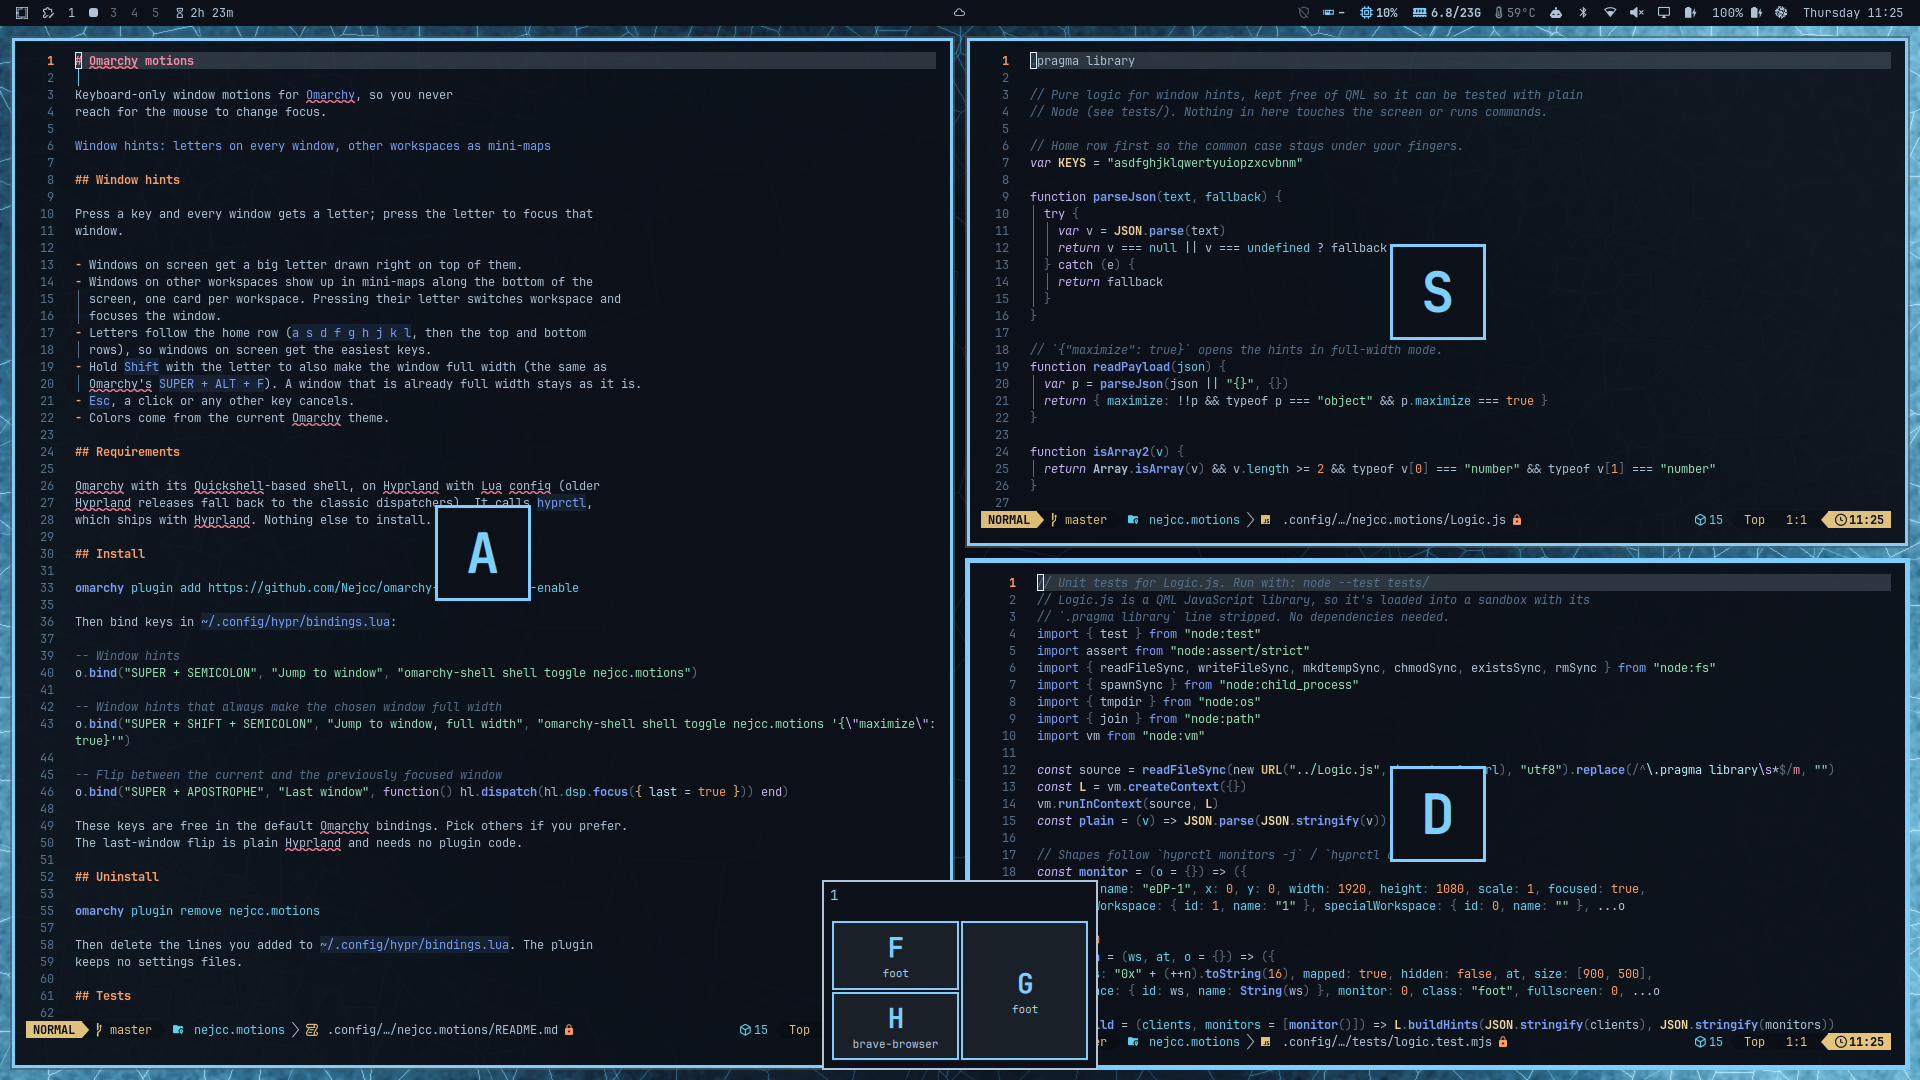
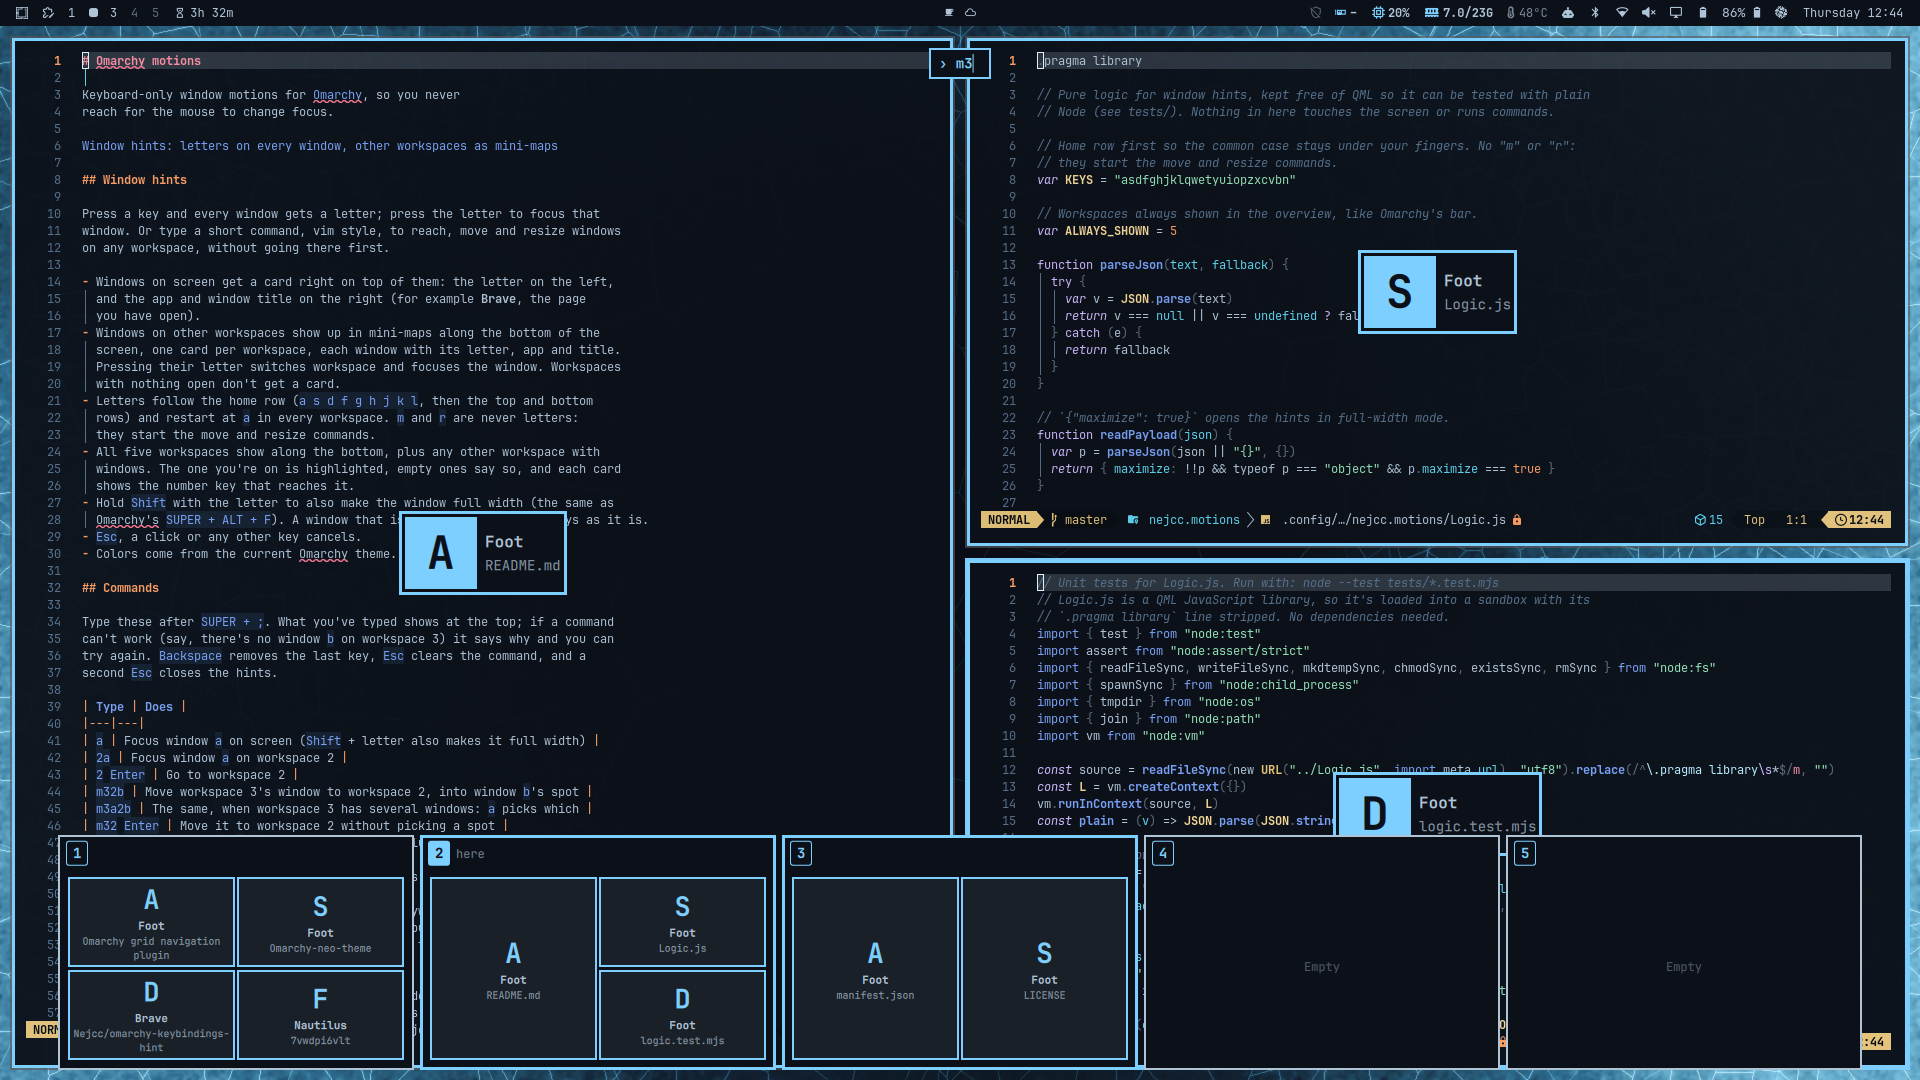
Retake preview with the command line and workspace overview

diff --git a/README.md b/README.md
@@ -3,7 +3,7 @@
 Keyboard-only window motions for [Omarchy](https://omarchy.org), so you never
 reach for the mouse to change focus.
 
-![Window hints: letters on every window, other workspaces as mini-maps](preview.png)
+![Window hints: a card with letter, app and title on every window, all workspaces along the bottom, and a move command being typed](preview.png)
 
 ## Window hints
 
